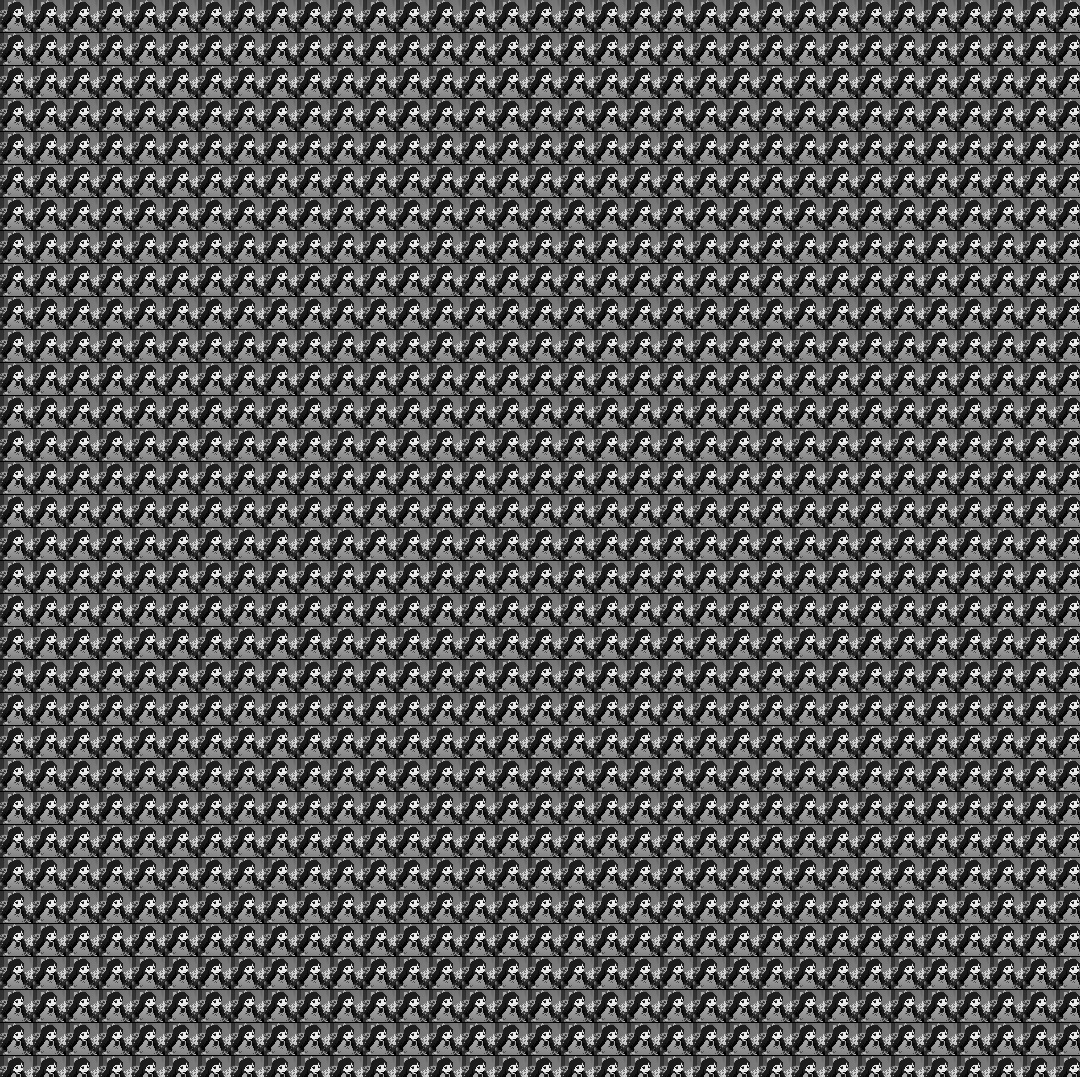
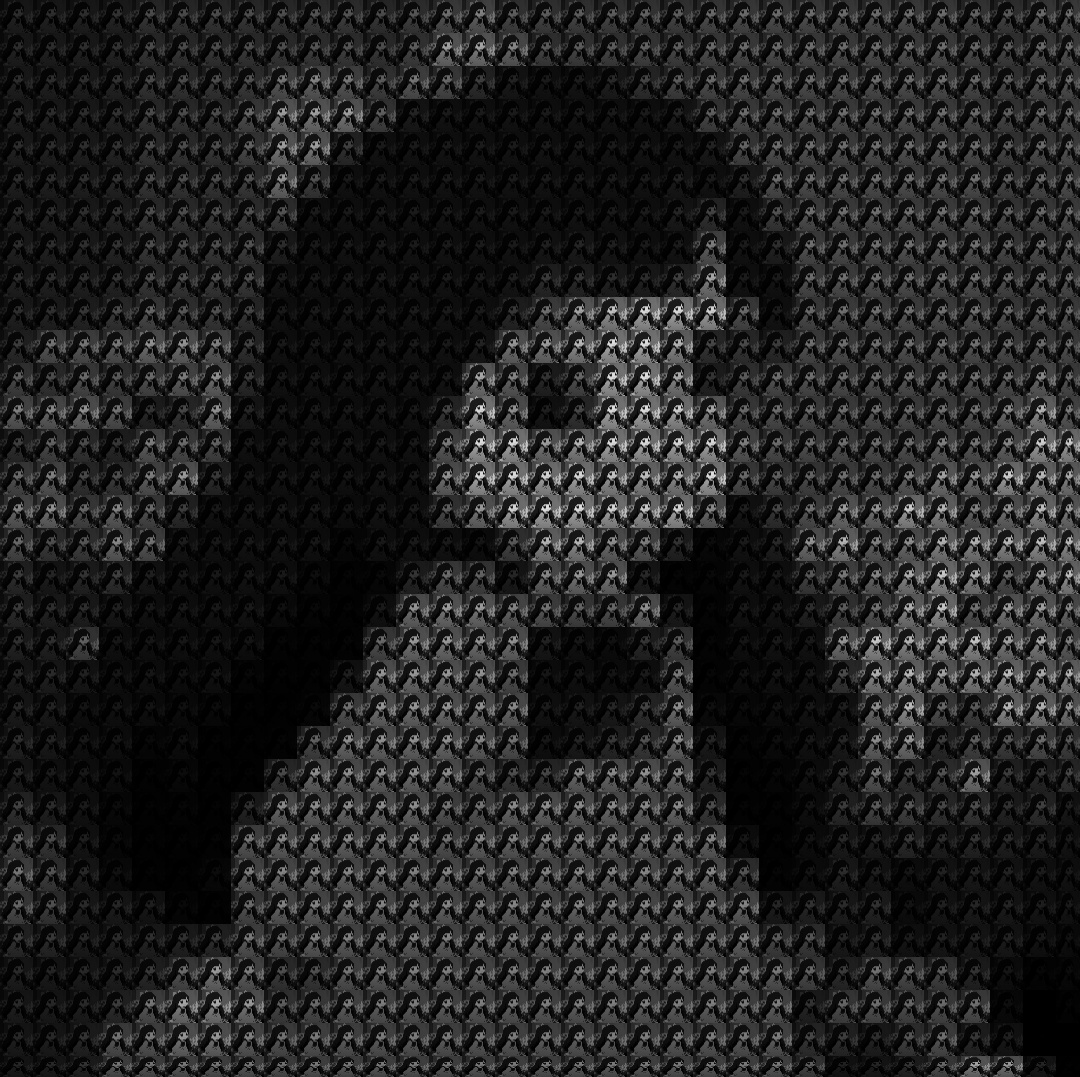
Funciona para la imagen principal

diff --git a/FiltrosRecursivos/filtros.py b/FiltrosRecursivos/filtros.py
@@ -1,31 +1,50 @@
 import numpy as np
 import cv2
-from PIL import Image
 
 def resize_image(image, scale):
-    """Redimensiona la imagen al tamaño especificado por la escala."""
+    """Tamaño pequeño a escala"""
     width = int(image.shape[1] * scale)
     height = int(image.shape[0] * scale)
-    dim = (width, height)
-    resized = cv2.resize(image, dim, interpolation=cv2.INTER_LINEAR)
+    resized = cv2.resize(image, (width, height), interpolation=cv2.INTER_LINEAR)
     return resized
 
-def recursive_image(image, num_steps):
-    """Genera una imagen recursiva a partir de la imagen dada."""
+def compute_average_color(image):
+    """Calcula el color promedio de la region dada"""
+    return np.mean(image, axis=(0, 1))
+
+def recursive_image(image, num_steps, grayscale=False):
+    """Genera una imagen recursiva a partir de la imagen dada"""
     height, width, _ = image.shape
     step_size = width // (2 ** num_steps)
-    
-    # Crea una imagen en blanco para el resultado
-    recursive_img = np.zeros((height, width, 3), dtype=np.uint8)
-    
+
+    recursive_img = np.zeros_like(image)
+
     for y in range(0, height, step_size):
         for x in range(0, width, step_size):
+            region = image[y:y+step_size, x:x+step_size]
+            avg_color = compute_average_color(region)
+            
+            # Si es gris, calculamos el tono promedio y convertimos a un tono de gris
+            if grayscale:
+                avg_gray = np.mean(avg_color)
+                avg_color = np.array([avg_gray] * 3)  # Convertimos a escala de grises
+
+            #ajustamos el tono
             scale = step_size / width
             resized_img = resize_image(image, scale)
-            img_height, img_width, _ = resized_img.shape
-            y_end = min(y + img_height, height)
-            x_end = min(x + img_width, width)
-            recursive_img[y:y_end, x:x_end] = resized_img[:y_end-y, :x_end-x]
+            resized_img = resized_img.astype(np.float32)
+            
+            # Aplicamos el color promedio
+            avg_color = np.array(avg_color)  # Convertimos avg_color a array de NumPy
+            adjusted_img = resized_img * (avg_color / 255.0)
+            
+            # Dimensiones de la imagen 
+            y_end = min(y + step_size, height)
+            x_end = min(x + step_size, width)
+
+            adjusted_img = cv2.resize(adjusted_img, (x_end-x, y_end-y), interpolation=cv2.INTER_LINEAR)
+
+            recursive_img[y:y_end, x:x_end] = adjusted_img[:y_end-y, :x_end-x]
 
     return recursive_img
 
@@ -36,23 +55,16 @@ def apply_grayscale_filter(image_path, num_steps=5):
     gray_img_color = cv2.cvtColor(gray_img, cv2.COLOR_GRAY2BGR)
 
     # Generar imagen recursiva en tonos de gris
-    recursive_img = recursive_image(gray_img_color, num_steps)
+    recursive_img = recursive_image(gray_img_color, num_steps, grayscale=True)
     
     # Guardar la imagen recursiva
-    imagen_recursiva = 'recursive_gray_image.jpg'
-    cv2.imwrite(imagen_recursiva, recursive_img)
-
-    return imagen_recursiva
+    cv2.imwrite('recursive_gray_image.jpg', recursive_img)
+    return 'recursive_gray_image.jpg'
 
 def apply_color_filter(image_path, num_steps=5):
-    """Aplica un filtro recursivo a color a la imagen."""
     img = cv2.imread(image_path)
 
-    # Generar imagen recursiva a color
     recursive_img = recursive_image(img, num_steps)
     
-    # Guardar la imagen recursiva
-    imagen_recursiva = 'recursive_color_image.jpg'
-    cv2.imwrite(imagen_recursiva, recursive_img)
-
-    return imagen_recursiva
+    cv2.imwrite('recursive_color_image.jpg', recursive_img)
+    return 'recursive_color_image.jpg'

diff --git a/FiltrosRecursivos/main.py b/FiltrosRecursivos/main.py
@@ -8,23 +8,19 @@ class ImageApp:
     def __init__(self, root):
         self.root = root
         self.root.title("Imágenes recursivas")
-
         self.load_button = tk.Button(root, text="Cargar la Imagen", command=self.load_image)
         self.load_button.pack()
-
         self.grayscale_button = tk.Button(root, text="Aplicamos filtro gris", command=self.apply_grayscale_filter)
         self.grayscale_button.pack()
-
         self.color_button = tk.Button(root, text="Aplicamos filtro con color", command=self.apply_color_filter)
         self.color_button.pack()
-
         self.image_label = tk.Label(root)
         self.image_label.pack()
-
         self.image_path = None
 
     def load_image(self):
-        self.image_path = filedialog.askopenfilename(filetypes=[("", "*.jpg;*.png")])
+      
+        self.image_path = filedialog.askopenfilename(filetypes=[("Imagen", "*.jpg;*.png")])
         if self.image_path:
             img = Image.open(self.image_path)
             img.thumbnail((1000, 1000))
@@ -35,21 +31,21 @@ class ImageApp:
         if not self.image_path:
             messagebox.showwarning("Error", "Cargue la imagen.")
             return
-        
+
         recursive_img_path = filtros.apply_grayscale_filter(self.image_path)
-        recursive_image_pil = Image.open(recursive_img_path)
-        recursive_image_pil.thumbnail((1000,1000))
-        self.img_tk = ImageTk.PhotoImage(recursive_image_pil)
-        self.image_label.config(image=self.img_tk)
+        self.display_image(recursive_img_path)
 
     def apply_color_filter(self):
         if not self.image_path:
             messagebox.showwarning("Error", "Cargue la imagen.")
             return
-        
+
         recursive_img_path = filtros.apply_color_filter(self.image_path)
-        recursive_image_pil = Image.open(recursive_img_path)
-        recursive_image_pil.thumbnail((1000, 1000,))
+        self.display_image(recursive_img_path)
+
+    def display_image(self, image_path):
+        recursive_image_pil = Image.open(image_path)
+        recursive_image_pil.thumbnail((100000, 100000))
         self.img_tk = ImageTk.PhotoImage(recursive_image_pil)
         self.image_label.config(image=self.img_tk)
 
